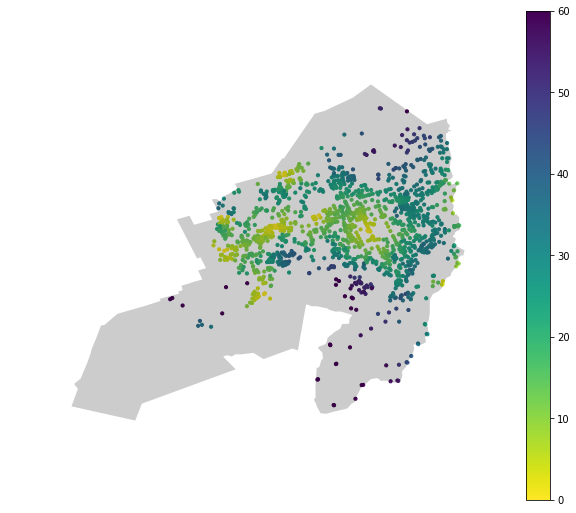
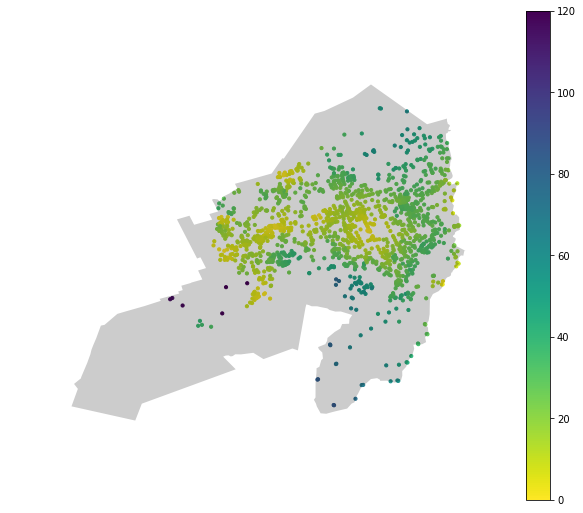
Updating figures after increasing accessibility cap to 120 minutes. Instead of 60 minutes.

diff --git a/_posts/2019-03-12-Modelling-accessibility-by-suburb.md b/_posts/2019-03-12-Modelling-accessibility-by-suburb.md
@@ -55,46 +55,42 @@ trunc_norm_model = su.load_or_generate_stan_model('stan', 'truncated_univariate_
 
 
 ## Normal Model
+Inference for Stan model: anon_model_cc3fc1beb21cbbe7b94ad66105c98210.
+4 chains, each with iter=2000; warmup=1000; thin=1;
+post-warmup draws per chain=1000, total post-warmup draws=4000.
 
-    Inference for Stan model: anon_model_cc3fc1beb21cbbe7b94ad66105c98210.
-    4 chains, each with iter=2000; warmup=1000; thin=1;
-    post-warmup draws per chain=1000, total post-warmup draws=4000.
+         mean se_mean     sd   2.5%    25%    50%    75%  97.5%  n_eff   Rhat
+mu      22.99  6.3e-3   0.35   22.3  22.75  22.99  23.23  23.67   3113    1.0
+sigma   14.28  4.3e-3   0.26  13.79   14.1  14.27  14.45  14.79   3630    1.0
+y_pred  22.71    0.23   14.3  -5.62  12.89  22.82  32.59  50.67   4000    1.0
+lp__    -5086    0.02    1.0  -5089  -5087  -5086  -5085  -5085   1809    1.0
 
-             mean se_mean     sd   2.5%    25%    50%    75%  97.5%  n_eff   Rhat
-    mu      22.61  5.6e-3   0.32  21.96   22.4  22.61  22.82  23.25   3285    1.0
-    sigma   12.62  3.9e-3   0.22  12.21  12.47  12.61  12.76  13.08   3176    1.0
-    y_pred  22.58    0.21  12.67  -2.36  14.14  22.53  30.96   47.4   3803    1.0
-    lp__    -4887    0.03   1.03  -4890  -4888  -4887  -4887  -4886   1678    1.0
-
-    Samples were drawn using NUTS at Thu Mar  7 13:12:42 2019.
-    For each parameter, n_eff is a crude measure of effective sample size,
-    and Rhat is the potential scale reduction factor on split chains (at
-    convergence, Rhat=1).
-
-
-### Checking model performance with posterior predictive
+Samples were drawn using NUTS at Mon Mar 18 15:07:35 2019.
+For each parameter, n_eff is a crude measure of effective sample size,
+and Rhat is the potential scale reduction factor on split chains (at
+convergence, Rhat=1).
 
 
-![](../images/2019-03-12-Modelling-accessibility-by-suburb/output_25_0.png)
+## Truncated Normal model for better fit
 
-![](../images/2019-03-12-Modelling-accessibility-by-suburb/output_26_0.png)
-
-
-## Truncated Normal Model
-
-![](../images/2019-03-12-Modelling-accessibility-by-suburb/output_31_0.png)
+| Normal Model | Truncated Normal Model |
+| :----------: | :--------------------: |
+|![](../images/2019-03-12-Modelling-accessibility-by-suburb/output_26_0.png) |![](../images/2019-03-12-Modelling-accessibility-by-suburb/output_50_0.png) |
 
 
-### Checking model performance with posterior predictive
+## Checking model performance with posterior predictive
+
+### Good fit
 ![](../images/2019-03-12-Modelling-accessibility-by-suburb/output_34_0.png)
 
-- Good fit
 
+### Reasonable fit with some issues
 ![](../images/2019-03-12-Modelling-accessibility-by-suburb/output_49_0.png)
 
  - Reasonable fit
  - Doesn't capture modes - likely due to the fact that Rongotai has both a residential and an industrial area.
 
+### Poor fit
 ![](../images/2019-03-12-Modelling-accessibility-by-suburb/output_35_0.png)
 
 - Poor fit
